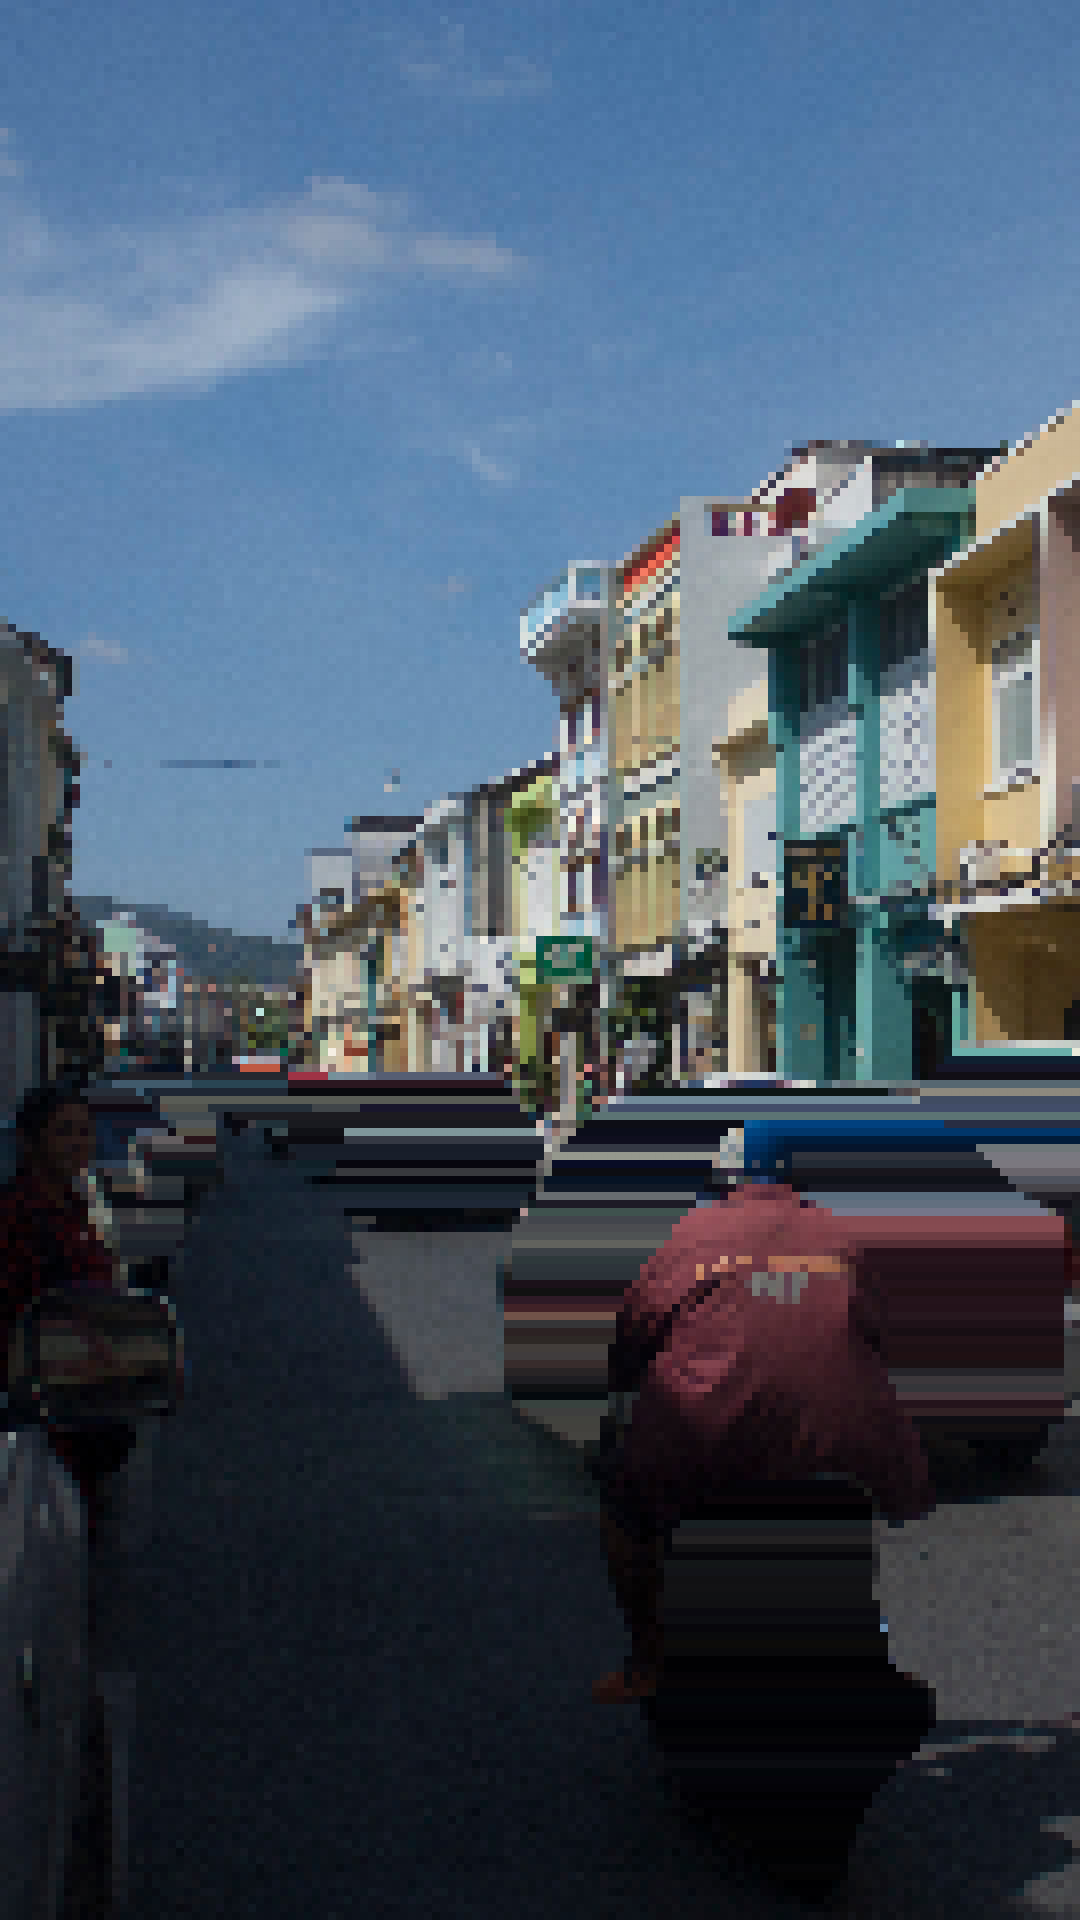
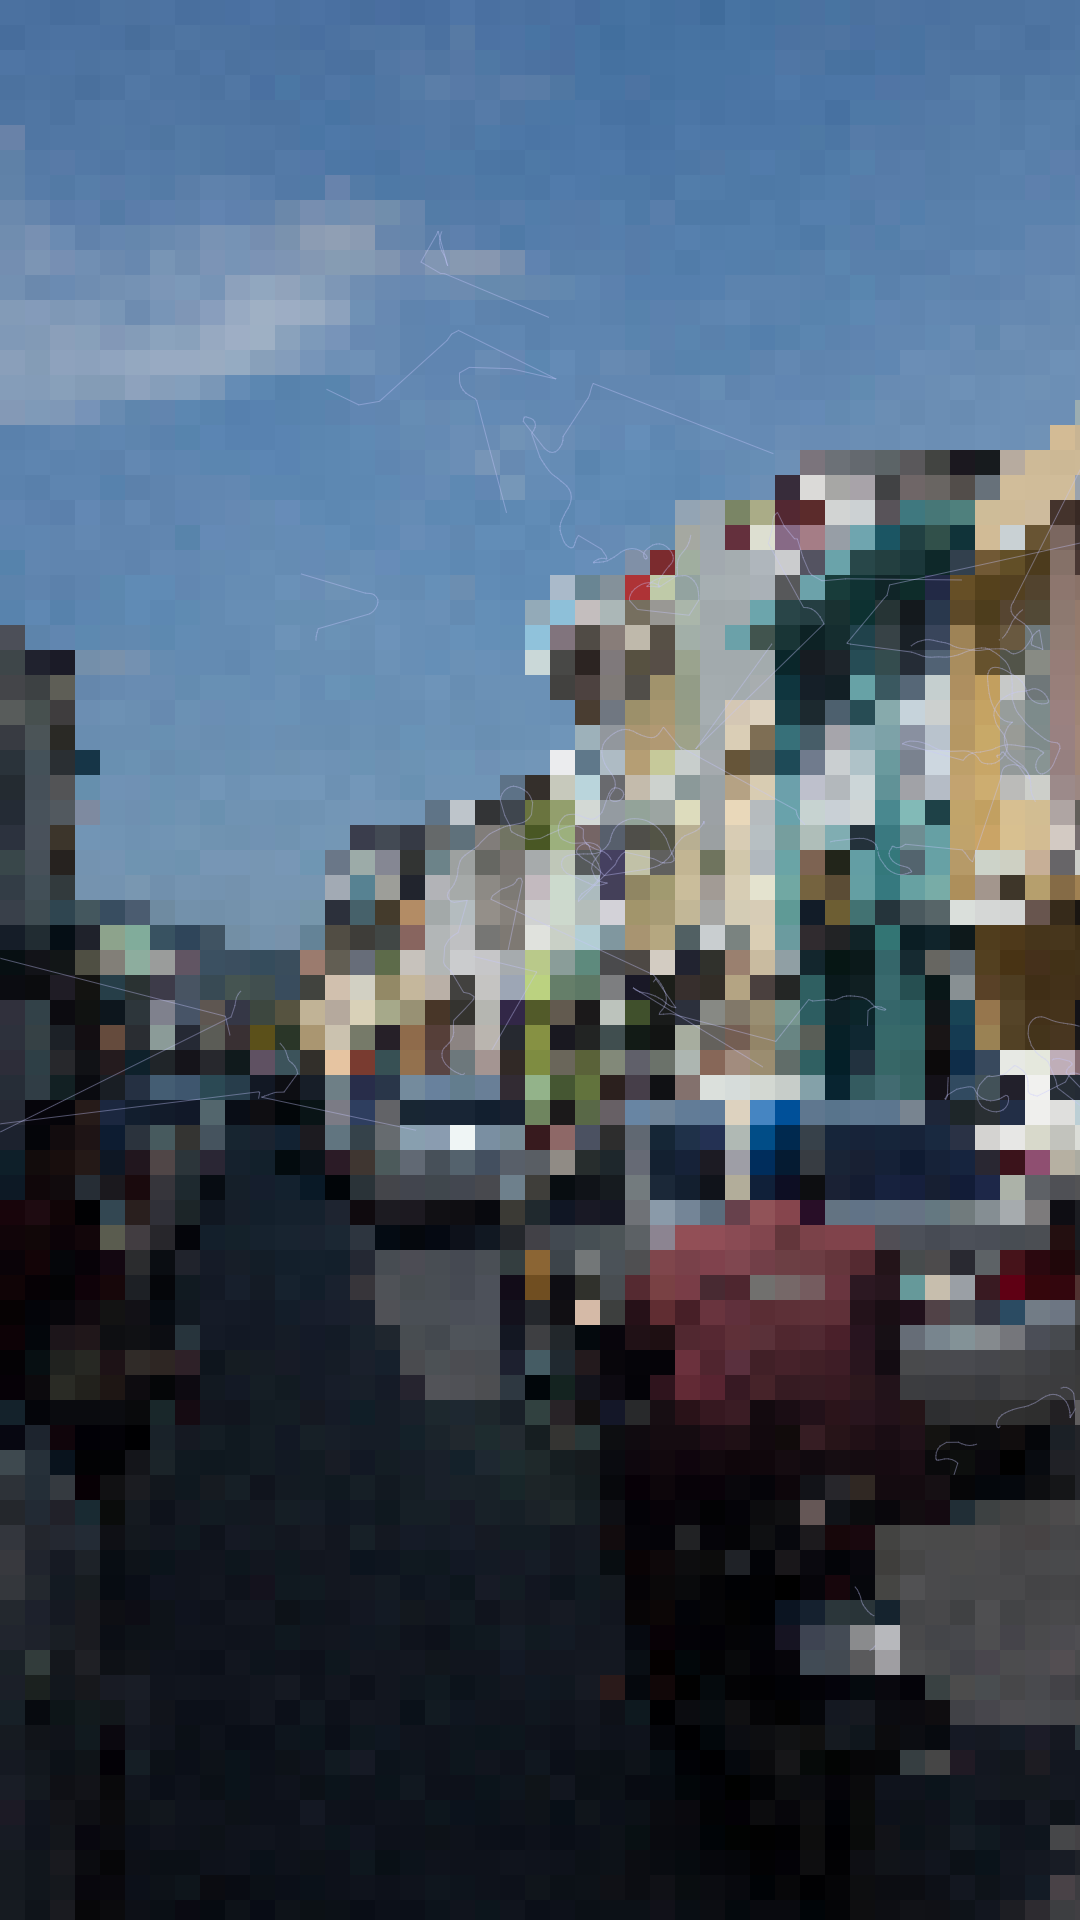
Particles!

diff --git a/sketch.js b/sketch.js
@@ -1,11 +1,25 @@
+//used perlin noise flowfield code from Dan Shiffman, also used an image of Atlantis Map projection
+//that is labelled for reuse 
+
 let sourceImg=null;
 let maskImg=null;
 let renderCounter=0;
 
+//variables for partcles
+var inc = 0.1;
+var scl = 10;
+var cols, rows;
+var zoff = 0;
+var fr;
+var particles = [];
+var flowfield;
 
+//made a else if type thing where it loads all images in sketch
 function preload() {
-  sourceImg = loadImage("input_2.jpg");
-  maskImg = loadImage("mask_2.png");
+  SourceImgName = "input_2.jpg";
+  maskImgName = "mask_2.png"
+  sourceImg = loadImage(SourceImgName);
+  maskImg = loadImage(maskImgName);
 }
 
 function setup () {
@@ -19,14 +33,25 @@ function setup () {
   background(0);
   sourceImg.loadPixels();
   maskImg.loadPixels();
+
+  cols = floor(width / scl);
+  rows = floor(height / scl);
+  fr = createP('');
+
+  flowfield = new Array(cols/2 * rows/2);
+
+//else if came in use when I had to declare the maskImg, now works for pic 2 + 3
+  for (var i = 0; i < 50; i++) {
+    particles[i] = new Particle(maskImg);
+  }
 }
 
-const pointSize = 10;
-
 function draw () {
+//pic 1 custom pixel
+if(SourceImgName=="input_1.jpg") {
 
+  const pointSize = 10;
   //need to use due to use of rectMode CENTER
-
   translate(pointSize,pointSize);
 
   for(let i=0;i<1080;i++) {
@@ -36,25 +61,85 @@ function draw () {
     let mask = maskImg.get(x, y);
     let halfSize = pointSize/2;
 
+  //maps for image one to draw squares at proportionate sizes
     let opc = map(mask[0],0,255,255,0);
     let size = map(mask[0],0,255,5,1);
     let str = map(mask[0],0,255,4,1);
 
     if(mask[0] < 255 && mask[0] > 0) {
-      fill(150,200,255,opc);
-      stroke(opc);
-      strokeWeight(1);
-      rect(x-halfSize, y-halfSize, pointSize*size, pointSize*size);
-      //fill(pix);
-      //rect(x-halfSize, y-halfSize, pointSize, pointSize);
-    }
-
-    else{
+      fill(200,200,255,opc);
       noStroke();
-      fill(pix);
+      rect(x-halfSize, y-halfSize, pointSize*size, pointSize*size);
+     }
+
+    else {
+      noStroke();
+      fill(pix,20);
       rect(x-halfSize, y-halfSize, pointSize, pointSize);
     }
   }
+}
+//pic 2+3 custom pixel
+  else if(SourceImgName=="input_2.jpg" || SourceImgName=="input_3.jpg") {
+
+    const pointSize = 25;
+
+    translate(pointSize,pointSize);
+
+      for(let i=0;i<1080;i++) {
+        let x = int(i * pointSize);
+        let y = int(renderCounter * pointSize);
+        let pix = sourceImg.get(x, y);
+        let mask = maskImg.get(x, y);
+        let halfSize = pointSize/2;
+
+        let opc = map(mask[0],0,255,255,0);
+        let size = map(mask[0],0,255,5,1);
+        let str = map(mask[0],0,255,4,1);
+
+        if(mask[0] < 255 && mask[0] > 0) {
+          fill(pix);
+          noStroke();
+          rect(x-halfSize, y-halfSize, pointSize, pointSize);
+
+          push();
+          translate(-pointSize,-pointSize);
+
+          var yoff = 0;
+          for (var y1 = 0; y1 < rows; y1++) {
+            var xoff = 0;
+            for (var x1 = 0; x1 < cols; x1++) {
+              var index = x1 + y1 * cols;
+              var angle = noise(xoff, yoff, zoff) * TWO_PI * 4;
+              var v = p5.Vector.fromAngle(angle);
+              v.setMag(1);
+              flowfield[index] = v;
+              xoff += inc;
+            }
+            yoff += inc;
+
+            zoff += 0.0003;
+          }
+
+          for (var j = 0; j < particles.length; j++) {
+            particles[j].follow(flowfield);
+            particles[j].update();
+            particles[j].edges();
+            particles[j].show();
+          }
+
+          fr.html(floor(frameRate()));
+
+          pop();
+        }
+          
+        else {
+          noStroke();
+          fill(pix);
+          rect(x-halfSize, y-halfSize, pointSize, pointSize);
+        }
+      }
+    }
 
   renderCounter = renderCounter + 1;
   if(renderCounter > 1920) {
@@ -63,6 +148,8 @@ function draw () {
     // saveBlocksImages();
   }
 }
+
+
 
 function keyTyped() {
   if (key == '!') {

diff --git a/particle.js b/particle.js
@@ -1,0 +1,74 @@
+//https://github.com/CodingTrain/website/tree/master/CodingChallenges/CC_024_PerlinNoiseFlowField
+//Used the code from Dan Shiffmans Perlin Noise Flow Field
+
+function Particle(maskImg) {
+  this.pos = createVector(random(width), random(height));
+  this.vel = createVector(0, 0);
+  this.acc = createVector(0, 0);
+  this.maxspeed = 4;
+  this.h = 0;
+
+  this.prevPos = this.pos.copy();
+
+  this.update = function() {
+    this.vel.add(this.acc);
+    this.vel.limit(this.maxspeed);
+    this.pos.add(this.vel);
+    this.acc.mult(0);
+  }
+
+  this.follow = function(vectors) {
+    var x = floor(this.pos.x / scl);
+    var y = floor(this.pos.y / scl);
+    var index = x + y * cols;
+    var force = vectors[index];
+    this.applyForce(force);
+  }
+
+  this.applyForce = function(force) {
+    this.acc.add(force);
+  }
+
+  this.show = function() {
+    stroke(this.h, 255, 255, 25);
+    this.h = this.h + 1;
+    if (this.h > 255) {
+      this.h = 0;
+    }
+    strokeWeight(1);
+    let mask = maskImg.get(this.pos.x, this.pos.y);
+
+    if(mask[0] < 255 && mask[0] > 0) {
+      stroke(200,200,255,100);
+      line(this.pos.x, this.pos.y, this.prevPos.x, this.prevPos.y);
+      this.updatePrev();
+     }
+    
+  }
+
+  this.updatePrev = function() {
+    this.prevPos.x = this.pos.x;
+    this.prevPos.y = this.pos.y;
+  }
+
+  this.edges = function() {
+    if (this.pos.x > width) {
+      this.pos.x = 0;
+      this.updatePrev();
+    }
+    if (this.pos.x < 0) {
+      this.pos.x = width;
+      this.updatePrev();
+    }
+    if (this.pos.y > height) {
+      this.pos.y = 0;
+      this.updatePrev();
+    }
+    if (this.pos.y < 0) {
+      this.pos.y = height;
+      this.updatePrev();
+    }
+
+  }
+
+}

diff --git a/render.html b/render.html
@@ -4,7 +4,9 @@
     <script src="z_hsluv-0.0.3.min.js"  type="text/javascript"></script>
     <script language="javascript" type="text/javascript" src="z_purview_helper.js"></script>
     <script language="javascript" type="text/javascript" src="z_color_helper.js"></script>
+    <script language="javascript" type="text/javascript" src="particle.js"></script>
     <script language="javascript" type="text/javascript" src="sketch.js"></script>
+
 </head>
 <body style="background-color:white">
 <div id="canvasContainer"></div>

diff --git a/README.md b/README.md
@@ -1,5 +1,9 @@
 ## Creative Coding 2: Custom Pixel
 
-Smart Mask
+Attempt at noise
 
-The baby blue looks a bit ridiculous so maybe I'll introduce some form of noise to make it look like smoke, I'm liking where this is going though. I also need a third image but that shouldn't be too hard to decide on.
+I got some feedback from the tutors on how to make it more interesting and noise was a recommended place to go with the custom pixel to represent smoke. I'm happy with the first image but 2 and 3 are the ones I want to work on I will try and get perlin noise implemented using Dan Shiffmans tutorial on the subject. 
+
+!!!!
+
+Forgot to push and did a bunch of stuff, the particles are now drawing inside my mask which was what I was struggling with the most, got some epic help from Michael and managed to get it working. It's very slow right now due to particle sims though.
